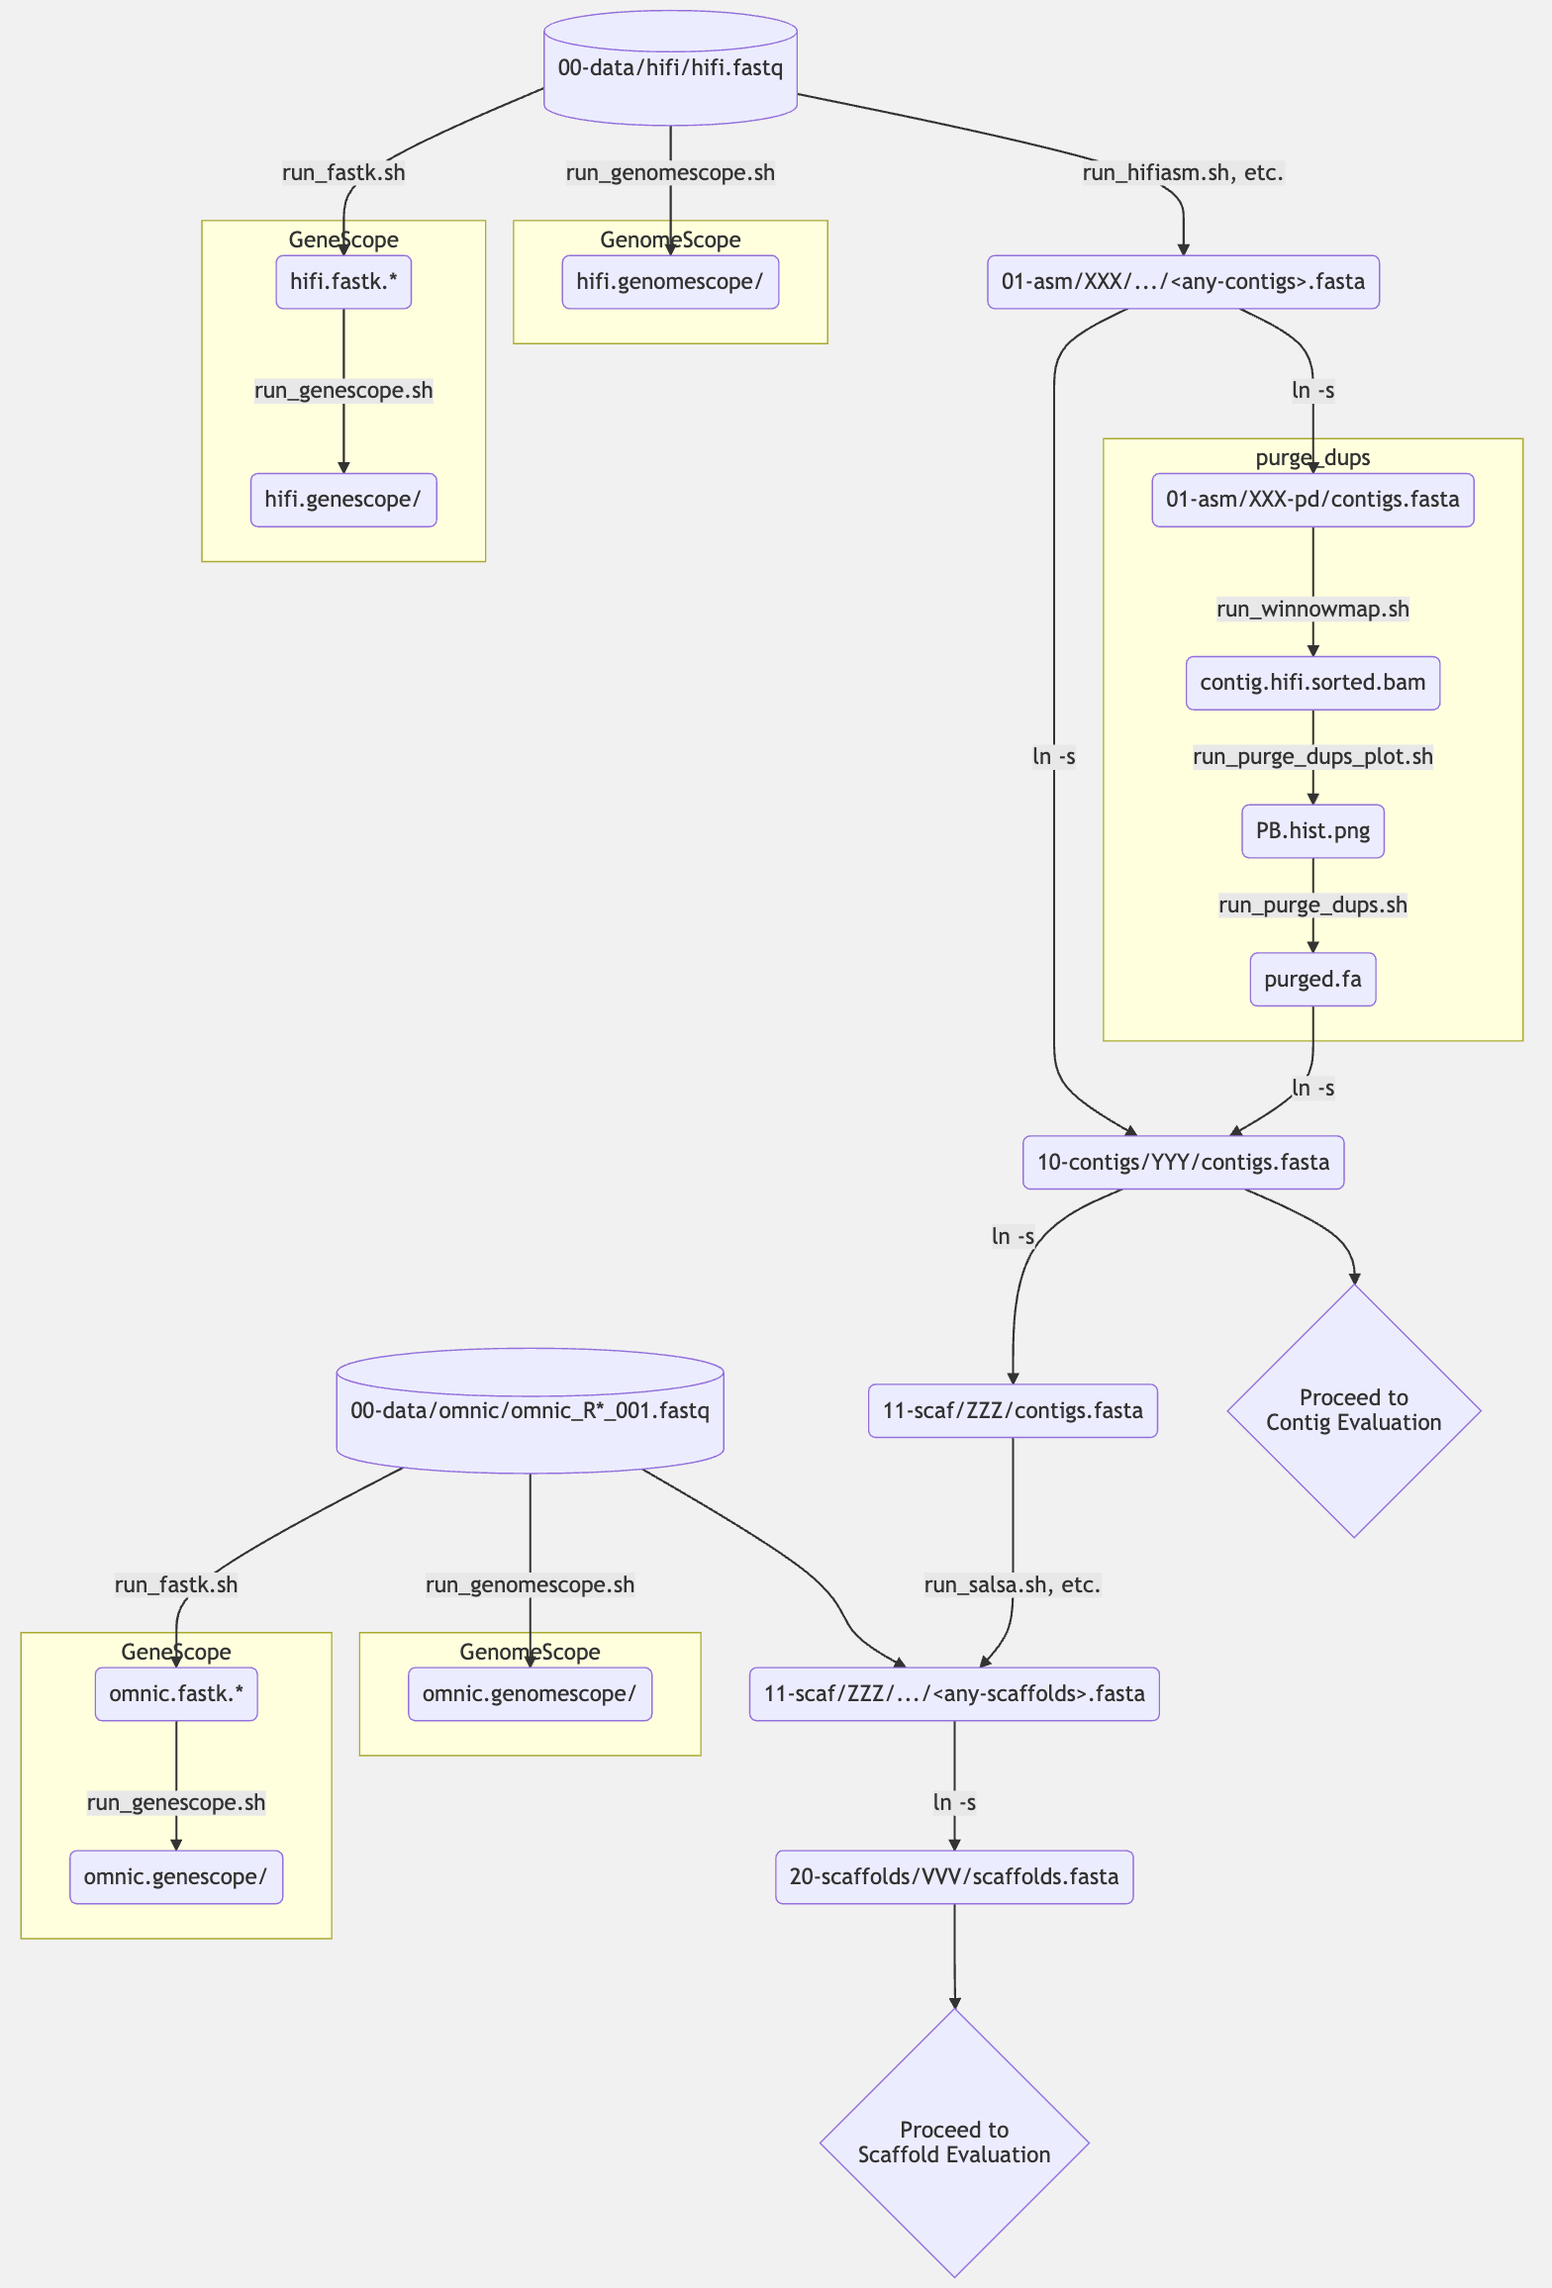
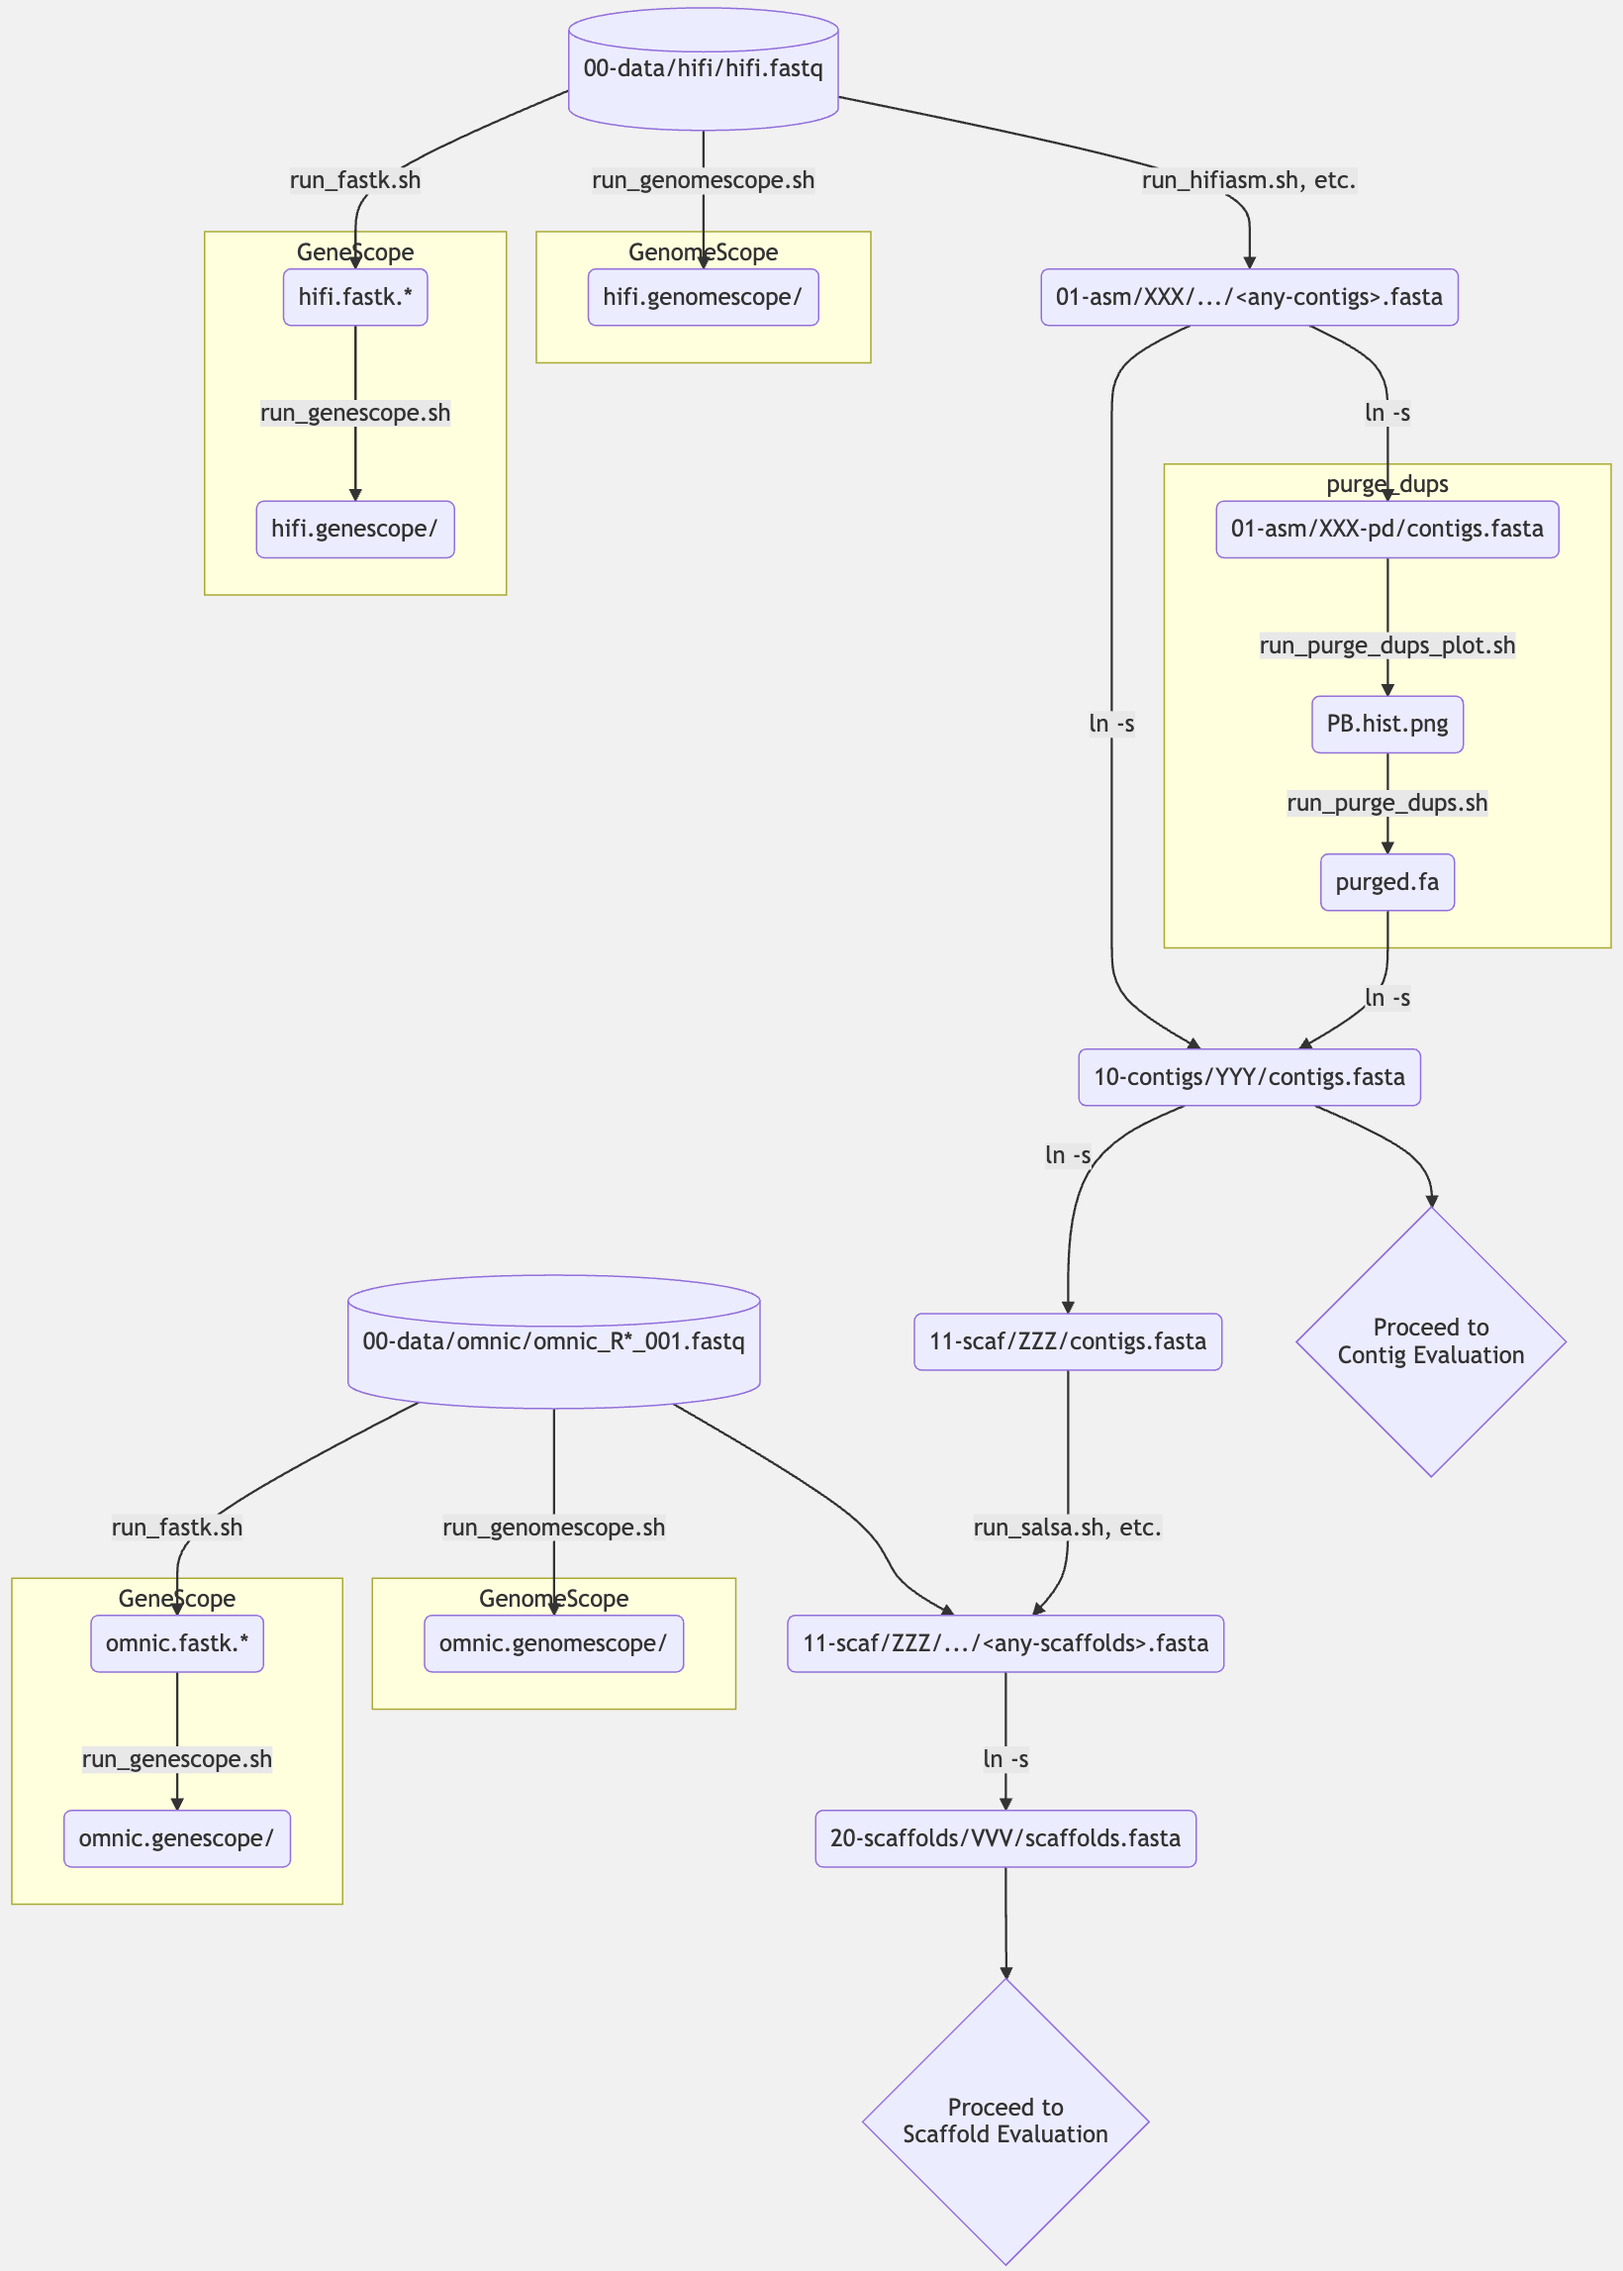
update purge_dups

diff --git a/README.md b/README.md
@@ -91,8 +91,7 @@ template/
 │   │   └── run_peregrine.sh
 │   └── template-purge-dups
 │       ├── run_purge_dups_plot.sh
-│       ├── run_purge_dups.sh
-│       └── run_winnowmap.sh
+│       └── run_purge_dups.sh
 ├── 10-contigs
 │   └── template
 │       ├── 01-busco
@@ -195,9 +194,8 @@ cd XXX/ &&   # NOTE: XXX = hifiasm, hicanu, etc. If you wish to try different pa
 cp -r template-purge-dups/ XXX-pd &&   # NOTE: XXX = hifiasm, hicanu, etc.
     cd XXX-pd &&
     ln -sf ../XXX/<contig-fasta-file> ./contigs.fasta &&   # NOTE: <contig-fasta-file> depends on the assembler
-    ./run_winnowmap.sh &&
     ./run_purge_dups_plot.sh &&
-    # Here, replace the values of `L`, `M`, `U` in run_purge_dups.sh to the values of `-l`, `-m`, `-u` options of purge_dups, based on the plot generated by run_purge_dups_plot.sh
+    # Here, set the values of `L`, `M`, `U` in run_purge_dups.sh based on the shape of `PB.hist.plot`
     ./run_purge_dups.sh &&
     cd ..
 cd ..

diff --git a/asset/dependency-asm.md b/asset/dependency-asm.md
@@ -23,7 +23,6 @@ end
 CONTIG("01-asm/XXX/.../<any-contigs>.fasta")
 subgraph purge_dups
 CONTIG_PD_SYM("01-asm/XXX-pd/contigs.fasta")
-CONTIG_PAF(contig.hifi.sorted.bam)
 PD_PLOT(PB.hist.png)
 CONTIG_PD(purged.fa)
 end
@@ -54,8 +53,7 @@ HIFI -->|run_hifiasm.sh, etc.| CONTIG
 CONTIG -->|ln -s| CONTIG_SYM
 
 CONTIG -->|ln -s| CONTIG_PD_SYM
-CONTIG_PD_SYM -->|run_winnowmap.sh| CONTIG_PAF
-CONTIG_PAF -->|run_purge_dups_plot.sh| PD_PLOT
+CONTIG_PD_SYM -->|run_purge_dups_plot.sh| PD_PLOT
 PD_PLOT -->|run_purge_dups.sh| CONTIG_PD
 CONTIG_PD -->|ln -s| CONTIG_SYM
 
